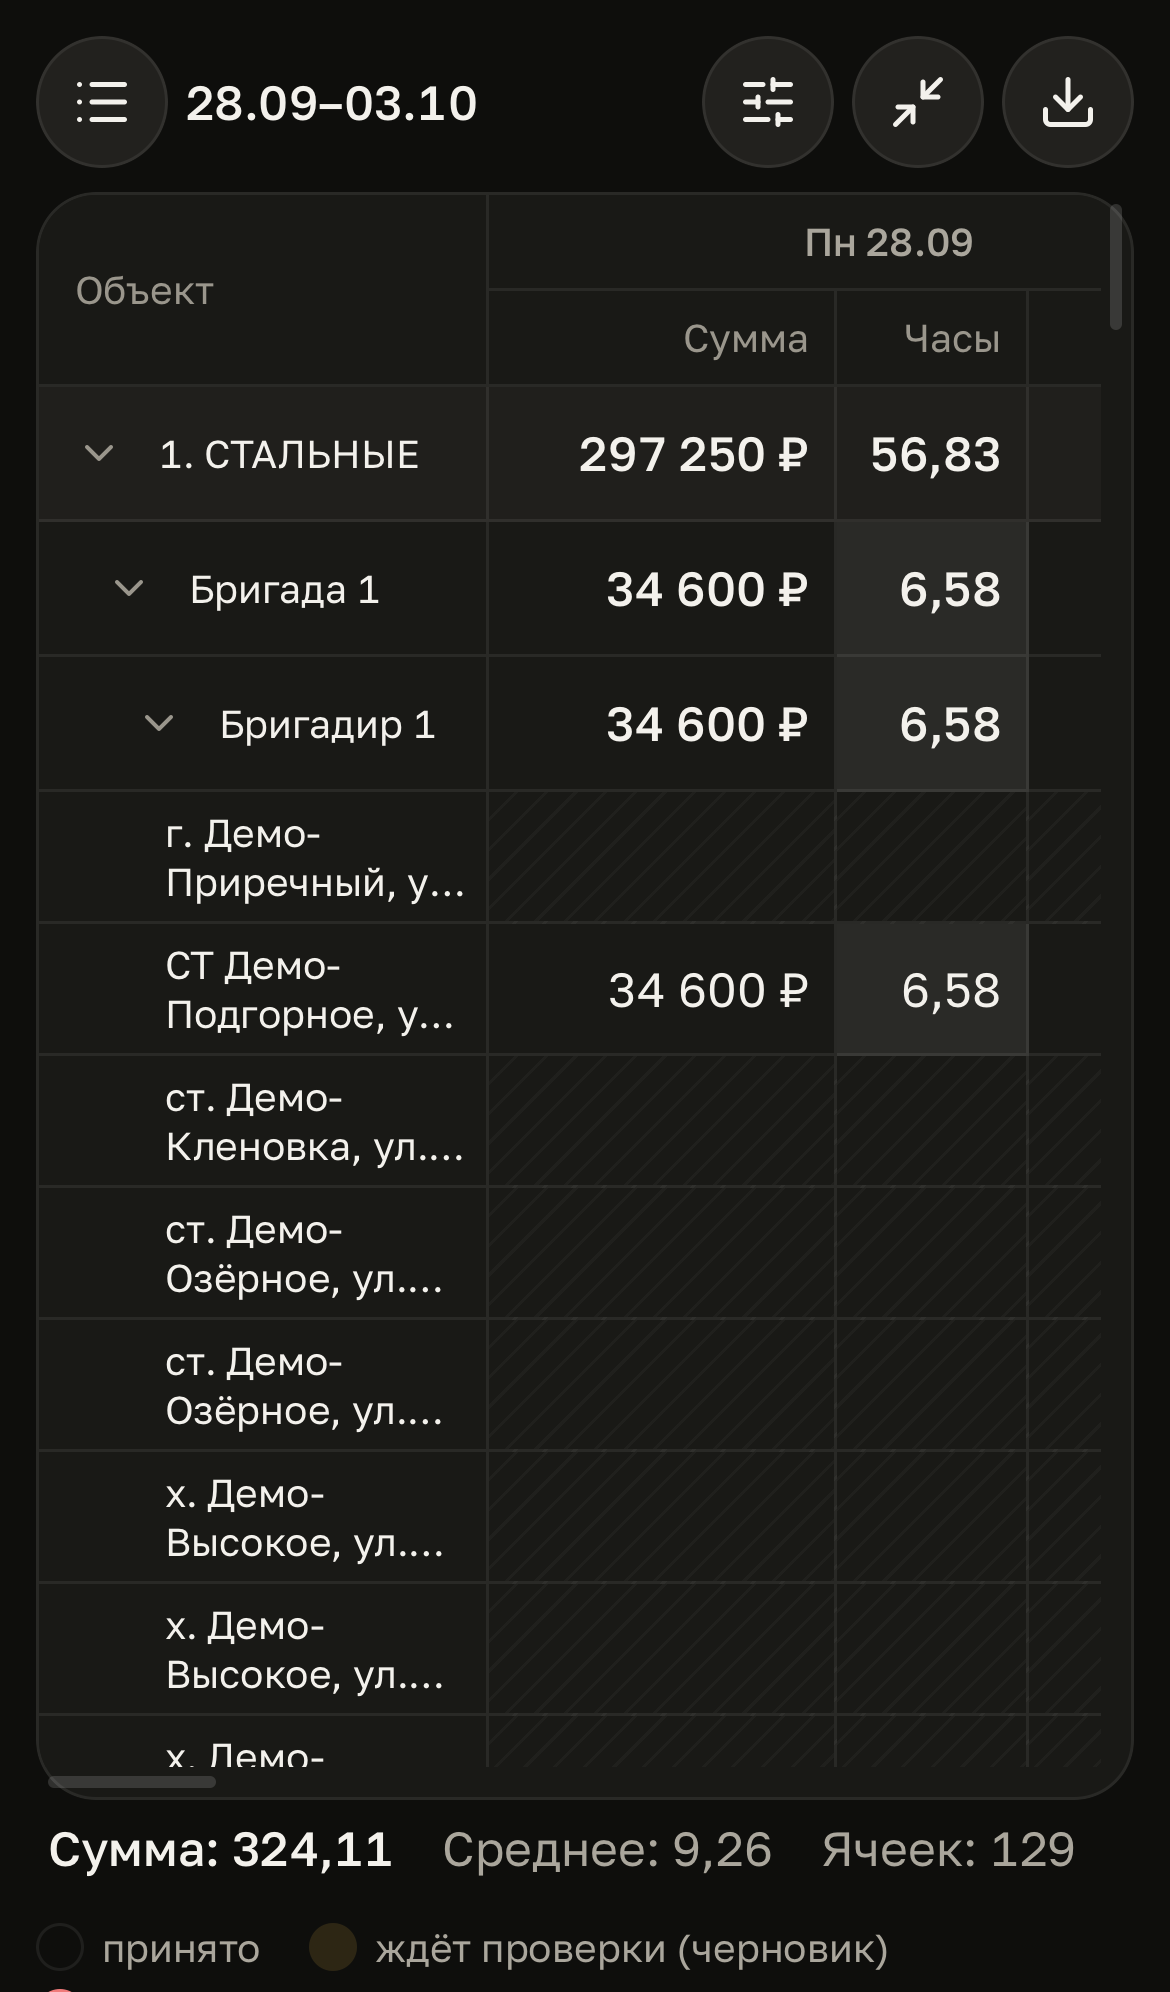
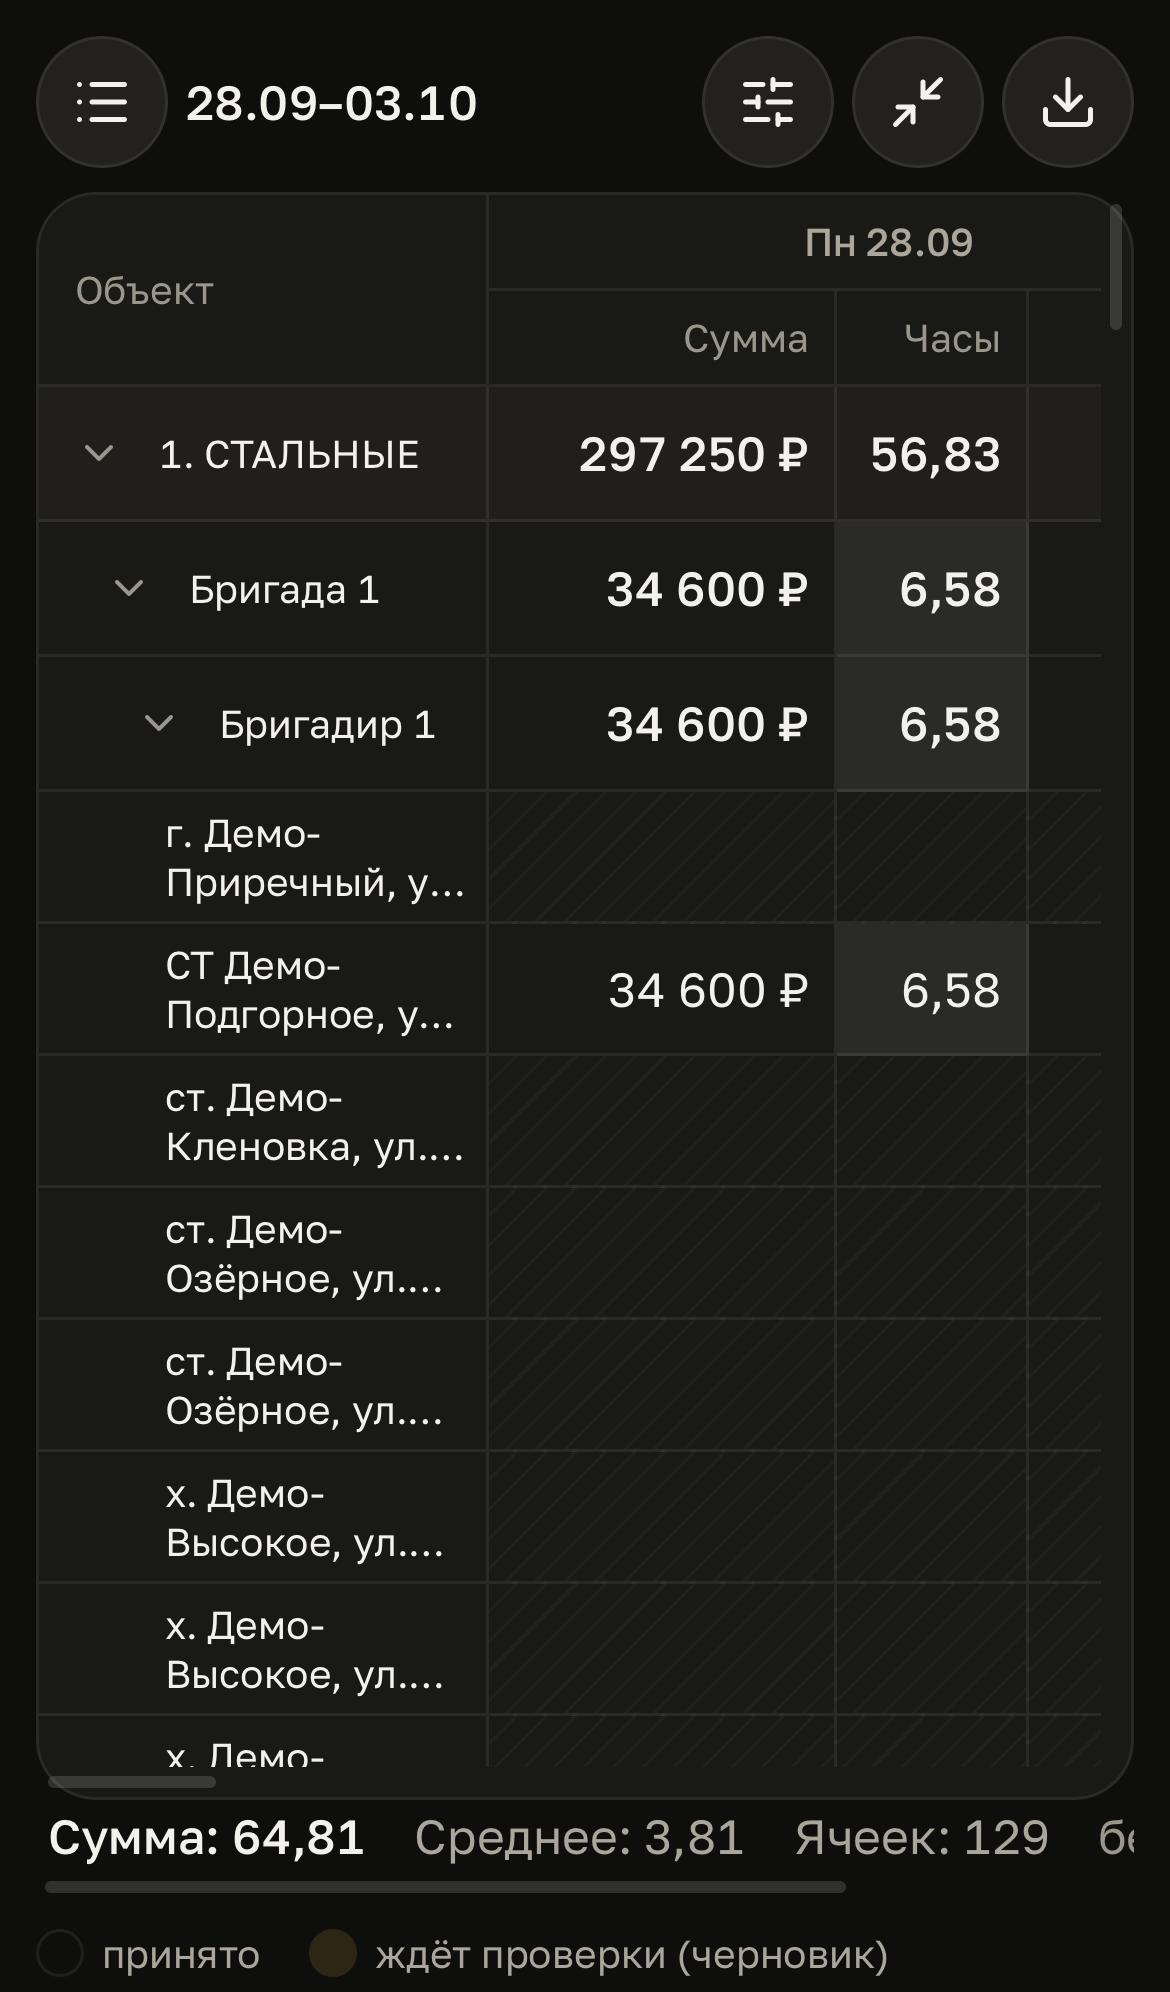
Снимок итога столбца после исправления

Changed region(s): [[0.0308, 0.9026, 0.9846, 0.996], [0.0308, 0.996, 0.0615, 1.0]]

diff --git a/.wk-tmp 2.ts b/.wk-tmp 2.ts
@@ -1,0 +1,28 @@
+import { webkit, devices } from "@playwright/test";
+const out = "docs/design/tabel-mobile";
+const b = await webkit.launch();
+const ctx = await b.newContext({ ...devices["iPhone 13"], colorScheme: "dark" });
+const p = await ctx.newPage();
+const errors: string[] = [];
+p.on("console", (m) => m.type() === "error" && errors.push(m.text()));
+await p.addInitScript(() => localStorage.setItem("neeklo-fieldops-theme", "dark"));
+await p.goto("http://localhost:5273/gas/tabel");
+await p.getByRole("button", { name: "Открыть как таблицу" }).click({ timeout: 60000 });
+await p.waitForTimeout(1500);
+await p.screenshot({ path: `${out}/after-1-table.png` });
+await p.getByRole("button", { name: "Во весь экран" }).click();
+const g = p.getByRole("grid").first();
+await g.locator('td[role="gridcell"]').filter({ hasText: "₽" }).first().tap();
+await p.waitForTimeout(500);
+await p.screenshot({ path: `${out}/after-2-fullscreen-sum.png` });
+await g.locator('th[role="columnheader"][data-col="1"]').tap();
+await p.waitForTimeout(500);
+await p.screenshot({ path: `${out}/after-3-column-sum.png` });
+await p.getByRole("button", { name: "Свернуть" }).click();
+await p.getByRole("button", { name: /^Вид и фильтры/ }).click();
+await p.waitForTimeout(800);
+await p.screenshot({ path: `${out}/after-4-settings.png` });
+await p.reload();
+await p.waitForTimeout(4000);
+console.log("table after reload:", await p.getByRole("grid").count(), "console errors:", errors.length, errors.slice(0,3));
+await b.close();
